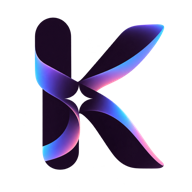
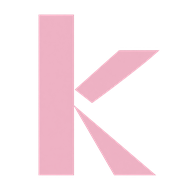
Update Kainnne primary brand mark

diff --git a/index.html b/index.html
@@ -18,14 +18,14 @@
     <meta property="og:locale" content="zh_TW" />
     <meta property="og:locale:alternate" content="en_US" />
     <meta property="og:image" content="https://kainnne.com/brand/kainnne-mark.png" />
-    <meta property="og:image:width" content="1254" />
-    <meta property="og:image:height" content="1254" />
-    <meta property="og:image:alt" content="Kainnne flowing ribbon K brand mark" />
+    <meta property="og:image:width" content="1229" />
+    <meta property="og:image:height" content="1280" />
+    <meta property="og:image:alt" content="Kainnne dreamy pink geometric K brand mark" />
     <meta name="twitter:card" content="summary" />
     <meta name="twitter:title" content="Kainnne（Kaine Zhu／朱璽）" />
     <meta name="twitter:description" content="Apps、UI / UX、AI、Machine Learning、知識工具與音樂創作。" />
     <meta name="twitter:image" content="https://kainnne.com/brand/kainnne-mark.png" />
-    <meta name="twitter:image:alt" content="Kainnne flowing ribbon K brand mark" />
+    <meta name="twitter:image:alt" content="Kainnne dreamy pink geometric K brand mark" />
     <link rel="canonical" href="https://kainnne.com/" />
     <link rel="icon" type="image/png" href="https://kainnne.com/brand/kainnne-mark.png" />
     <link rel="apple-touch-icon" href="https://kainnne.com/brand/kainnne-mark.png" />
@@ -45,9 +45,9 @@
             "@id": "https://kainnne.com/#brand-image",
             "url": "https://kainnne.com/brand/kainnne-mark.png",
             "contentUrl": "https://kainnne.com/brand/kainnne-mark.png",
-            "width": 1254,
-            "height": 1254,
-            "caption": "Kainnne flowing ribbon K brand mark"
+            "width": 1229,
+            "height": 1280,
+            "caption": "Kainnne dreamy pink geometric K brand mark"
           },
           {
             "@type": "Brand",

diff --git a/brand-assets/README.md b/brand-assets/README.md
@@ -1,6 +1,6 @@
 # Kainnne 品牌主視覺
 
-`kainnne-primary-visual-v1.png` 是目前正式的 Kainnne 品牌總圖案：透明背景、流線 ribbon K。它是原始保存檔，不直接由頁面程式重畫，也不應被拉伸或加上白色、黑色底圖。
+`kainnne-primary-visual-v2.png` 是目前正式的 Kainnne 品牌總圖案：透明背景、粉紅色幾何 `K`。它是原始保存檔，不直接由頁面程式重畫，也不應被拉伸或加上白色、黑色底圖。上一版 `kainnne-primary-visual-v1.png` 保留作為可復原的歷史版本。
 
 ## 線上固定入口
 

diff --git a/README.md b/README.md
@@ -10,7 +10,7 @@
 - 完整手機導覽、觸控版面與 `prefers-reduced-motion`
 - Person／ProfilePage／WebSite 結構化資料、`robots.txt` 與 `sitemap.xml`
 - 集中式網站 metadata 與建置前 GEO／SEO 同步檢查
-- 統一的流線 `K` 主視覺、favicon、Apple touch icon 與社群分享圖片
+- 統一的粉紅幾何 `K` 主視覺、favicon、Apple touch icon 與社群分享圖片
 - 允許搜尋引擎與 OAI-SearchBot 索引的 GEO／SEO 基礎
 - 頁尾顯示免 Cookie 的公開總瀏覽數
 - GitHub Actions 自動建置並部署到 GitHub Pages
